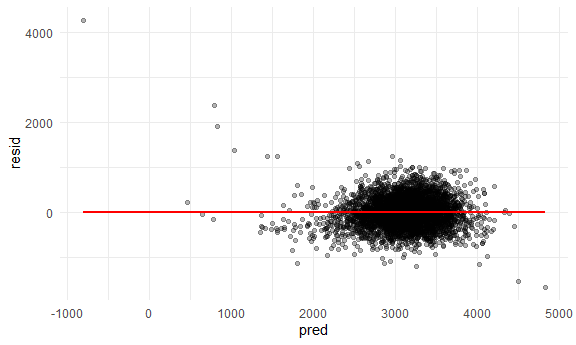
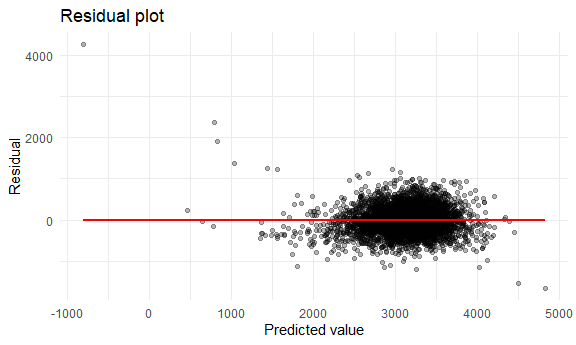
probelm 2 plot

diff --git a/p8105_hw6_jz3425.md b/p8105_hw6_jz3425.md
@@ -45,8 +45,8 @@ bwt_df %>%
     ## #   pnumlbw <dbl>, pnumsga <dbl>, ppbmi <dbl>, ppwt <dbl>, smoken <dbl>,
     ## #   wtgain <dbl>
 
-The result shows that there is no missing data, and all psumsga and
-pnumlbw = 0 so we could neglect these two variables.
+The result shows that there is no missing data, and all `psumsga` and
+`pnumlbw` = 0 so we could neglect these two variables.
 
 Clean the data for regression analysis.
 
@@ -139,8 +139,9 @@ marginal[1:5]
 According to the p-values, some of the variables have strong association
 with birthweight while others do not.
 
-First I will choose bhead, blength, delwt, fincome, gaweeks, mheight,
-momage, ppbmi, ppwt, smoken and wtgain for further tests.
+First I will choose `bhead`, `blength`, `delwt`, `fincome`, `gaweeks`,
+`mheight`, `momage`, `ppbmi`, `ppwt`, `smoken` and `wtgain` for further
+tests.
 
 ### Testing for pairwise relationship
 
@@ -171,7 +172,7 @@ bwt_df %>%
     ## 1 (Intercept)   37.5      0.484       77.6 0        
     ## 2 gaweeks        0.310    0.0122      25.4 1.95e-132
 
-I will delete gaweeks and bhead and keep blength.
+I will delete `gaweeks` and `bhead` and keep `blength`.
 
 ``` r
 bwt_df %>% 
@@ -221,7 +222,7 @@ bwt_df %>%
     ## 1 (Intercept)  127.       0.687      184.  0        
     ## 2 wtgain         0.862    0.0279      30.9 8.30e-190
 
-I will delete mheight, ppwt, ppbmi, wtgain and keep delwt.
+I will delete `mheight`, `ppwt`, `ppbmi`, `wtgain` and keep `delwt`.
 
 So my hypothesis is that a child’s birthweight is associated with baby’s
 length at birth, mother’s weight at delivery, mother’s age at delivery,
@@ -255,10 +256,18 @@ bwt_df %>%
   add_predictions(lm_1) %>% 
   ggplot(aes(x = pred, y = resid)) +
   geom_point(alpha = .3) +
-  geom_smooth(method = "lm", se = FALSE, color = "red")
+  geom_smooth(method = "lm", se = FALSE, color = "red") +
+  labs(
+    title = "Residual plot",
+    x = "Predicted value",
+    y = "Residual"
+  )
 ```
 
 <img src="p8105_hw6_jz3425_files/figure-gfm/unnamed-chunk-7-1.png" width="90%" />
+
+As expected, the residual values bounce around 0 (the expected value is
+about 0).
 
 There is an outlier far away.
 
@@ -303,6 +312,25 @@ cv_df =
     rmse_3 = map2_dbl(lm_3, test, ~rmse(model = .x, data = .y))
   )
 
+cv_df
+```
+
+    ## # A tibble: 100 x 9
+    ##    train                   test     .id   lm_1  lm_2  lm_3  rmse_1 rmse_2 rmse_3
+    ##    <list>                  <list>   <chr> <lis> <lis> <lis>  <dbl>  <dbl>  <dbl>
+    ##  1 <resample [3,473 x 18]> <resamp~ 001   <lm>  <lm>  <lm>    330.   336.   286.
+    ##  2 <resample [3,473 x 18]> <resamp~ 002   <lm>  <lm>  <lm>    332.   333.   286.
+    ##  3 <resample [3,473 x 18]> <resamp~ 003   <lm>  <lm>  <lm>    361.   362.   301.
+    ##  4 <resample [3,473 x 18]> <resamp~ 004   <lm>  <lm>  <lm>    319.   316.   275.
+    ##  5 <resample [3,473 x 18]> <resamp~ 005   <lm>  <lm>  <lm>    320.   324.   283.
+    ##  6 <resample [3,473 x 18]> <resamp~ 006   <lm>  <lm>  <lm>    335.   339.   295.
+    ##  7 <resample [3,473 x 18]> <resamp~ 007   <lm>  <lm>  <lm>    324.   324.   281.
+    ##  8 <resample [3,473 x 18]> <resamp~ 008   <lm>  <lm>  <lm>    325.   336.   296.
+    ##  9 <resample [3,473 x 18]> <resamp~ 009   <lm>  <lm>  <lm>    312.   315.   275.
+    ## 10 <resample [3,473 x 18]> <resamp~ 010   <lm>  <lm>  <lm>    320.   331.   284.
+    ## # ... with 90 more rows
+
+``` r
 cv_df %>% 
   select(rmse_1:rmse_3) %>% 
   pivot_longer(
@@ -320,3 +348,162 @@ cv_df %>%
 My model gets pretty much the same rmse as model 2, but much higher than
 model 3. Maybe this shows that there are interactions between blength,
 bhead and babysex.
+
+# Problem 2
+
+``` r
+weather_df = 
+  rnoaa::meteo_pull_monitors(
+    c("USW00094728"),
+    var = c("PRCP", "TMIN", "TMAX"), 
+    date_min = "2017-01-01",
+    date_max = "2017-12-31") %>%
+  mutate(
+    name = recode(id, USW00094728 = "CentralPark_NY"),
+    tmin = tmin / 10,
+    tmax = tmax / 10) %>%
+  select(name, id, everything())
+```
+
+    ## Registered S3 method overwritten by 'hoardr':
+    ##   method           from
+    ##   print.cache_info httr
+
+    ## using cached file: C:\Users\zjb_v\AppData\Local/Cache/R/noaa_ghcnd/USW00094728.dly
+
+    ## date created (size, mb): 2021-09-10 12:36:05 (7.614)
+
+    ## file min/max dates: 1869-01-01 / 2021-09-30
+
+``` r
+boot_sample = function(df){
+  sample_frac(df, replace = TRUE)
+}
+```
+
+Bootstrap
+
+``` r
+set.seed(518)
+
+boot_straps =
+  data_frame(
+    strap_number = 1:50,
+    strap_sample = rerun(50, boot_sample(weather_df))
+  )
+```
+
+    ## Warning: `data_frame()` was deprecated in tibble 1.1.0.
+    ## Please use `tibble()` instead.
+    ## This warning is displayed once every 8 hours.
+    ## Call `lifecycle::last_lifecycle_warnings()` to see where this warning was generated.
+
+``` r
+bootstrap_results = 
+  boot_straps %>% 
+  mutate(
+    models = map(strap_sample, ~lm(tmax ~ tmin, data = .x)),
+    results_1 = map(models, broom::glance),
+    results_2 = map(models, broom::tidy)
+  ) %>% 
+  select(strap_number, results_1, results_2) %>% 
+  unnest(results_1, results_2) %>% 
+  select(strap_number, r.squared, term, estimate) %>% 
+  janitor::clean_names()
+```
+
+    ## Warning: unnest() has a new interface. See ?unnest for details.
+    ## Try `df %>% unnest(c(results_1, results_2))`, with `mutate()` if needed
+
+    ## Warning in FUN(X[[i]], ...): strings not representable in native encoding will
+    ## be translated to UTF-8
+
+    ## Warning in FUN(X[[i]], ...): unable to translate '<U+00C4>' to native encoding
+
+    ## Warning in FUN(X[[i]], ...): unable to translate '<U+00D6>' to native encoding
+
+    ## Warning in FUN(X[[i]], ...): unable to translate '<U+00E4>' to native encoding
+
+    ## Warning in FUN(X[[i]], ...): unable to translate '<U+00F6>' to native encoding
+
+    ## Warning in FUN(X[[i]], ...): unable to translate '<U+00DF>' to native encoding
+
+    ## Warning in FUN(X[[i]], ...): unable to translate '<U+00C6>' to native encoding
+
+    ## Warning in FUN(X[[i]], ...): unable to translate '<U+00E6>' to native encoding
+
+    ## Warning in FUN(X[[i]], ...): unable to translate '<U+00D8>' to native encoding
+
+    ## Warning in FUN(X[[i]], ...): unable to translate '<U+00F8>' to native encoding
+
+    ## Warning in FUN(X[[i]], ...): unable to translate '<U+00C5>' to native encoding
+
+    ## Warning in FUN(X[[i]], ...): unable to translate '<U+00E5>' to native encoding
+
+Plot
+
+``` r
+bootstrap_results %>% 
+  filter(term == "tmin") %>% 
+  ggplot(aes(x = r_squared)) +
+  geom_density() +
+  labs(
+    title = "Distribution of R Squared",
+    x = "R Squared",
+    y = "Density"
+  )
+```
+
+<img src="p8105_hw6_jz3425_files/figure-gfm/unnamed-chunk-12-1.png" width="90%" />
+
+``` r
+b0 =
+  bootstrap_results %>% 
+  filter(term == "(Intercept)") %>% 
+  pull(estimate)
+
+b1 = 
+  bootstrap_results %>% 
+  filter(term == "tmin") %>% 
+  pull(estimate)
+
+tibble(b0, b1) %>% 
+  ggplot(aes(x = log(b0 * b1))) +
+  geom_density() +
+  labs(
+    title = "Distribution of log(β0 * β1)",
+    x = "log(β0 * β1)",
+    y = "Density"
+  )
+```
+
+<img src="p8105_hw6_jz3425_files/figure-gfm/unnamed-chunk-12-2.png" width="90%" />
+
+Compute CI
+
+``` r
+bootstrap_results %>% 
+  filter(term == "tmin") %>% 
+  summarize(
+    ci_lower = quantile(r_squared, 0.025),
+    ci_upper = quantile(r_squared, 0.975)
+  )
+```
+
+    ## # A tibble: 1 x 2
+    ##   ci_lower ci_upper
+    ##      <dbl>    <dbl>
+    ## 1    0.896    0.923
+
+``` r
+tibble(b0, b1) %>% 
+  summarize(
+    ci_lower = quantile(log(b0 * b1), 0.025),
+    ci_upper = quantile(log(b0 * b1), 0.975)
+  )
+```
+
+    ## # A tibble: 1 x 2
+    ##   ci_lower ci_upper
+    ##      <dbl>    <dbl>
+    ## 1     1.97     2.06
